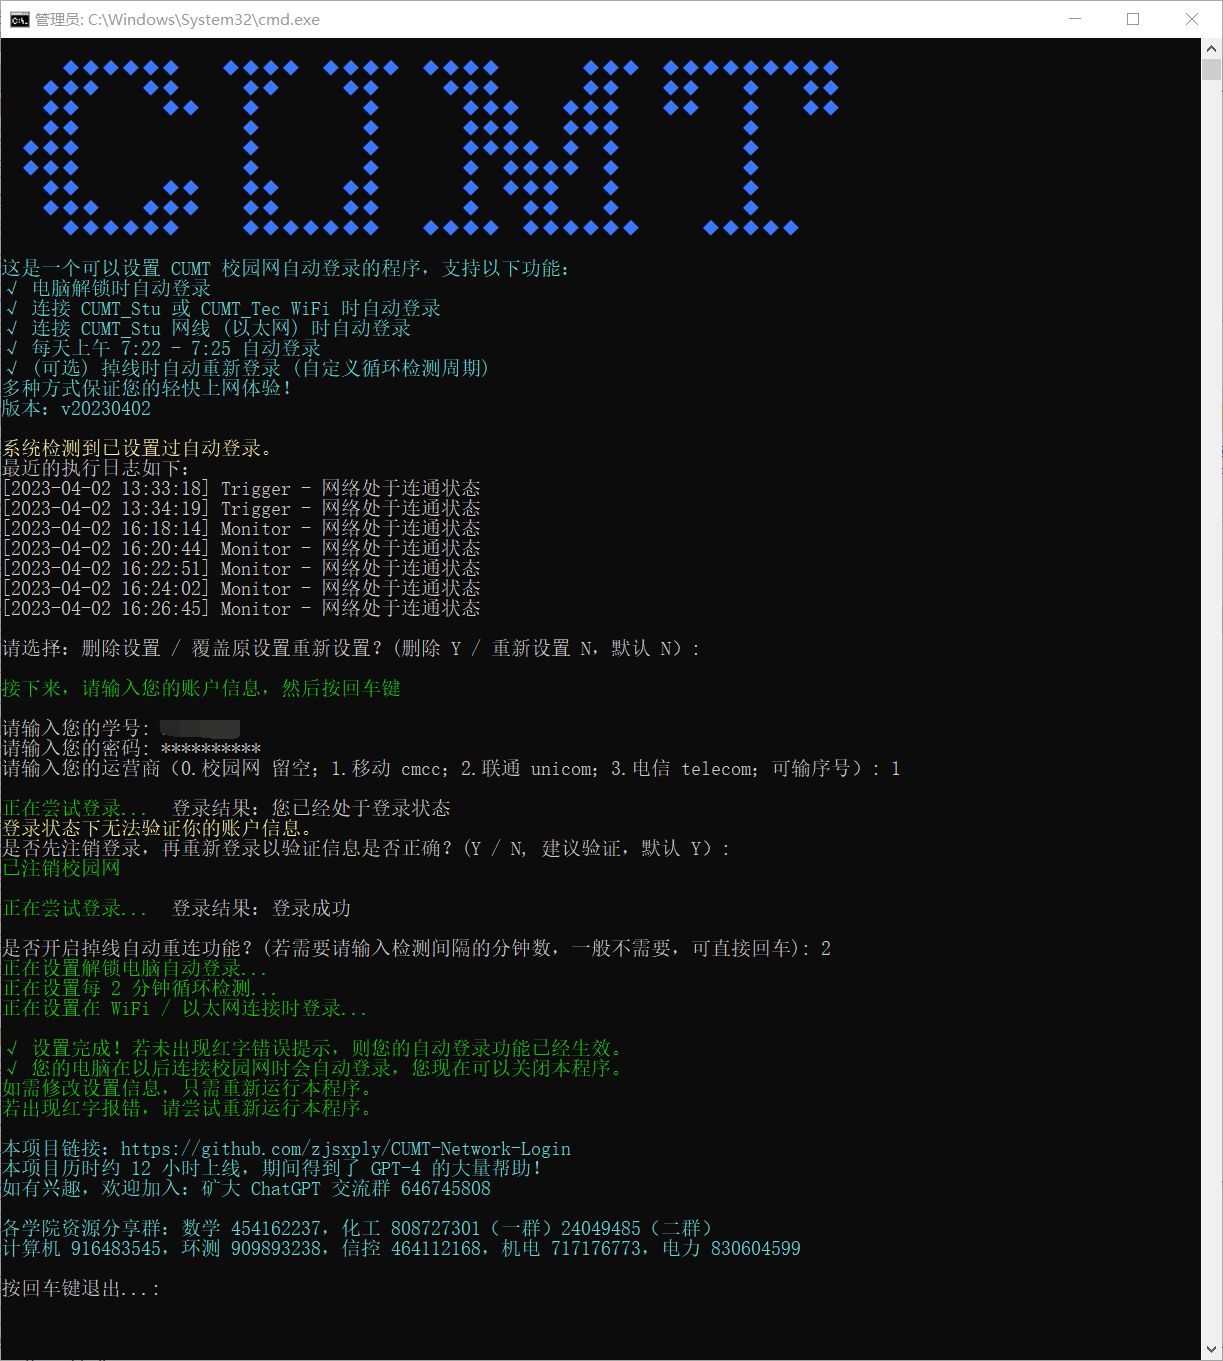
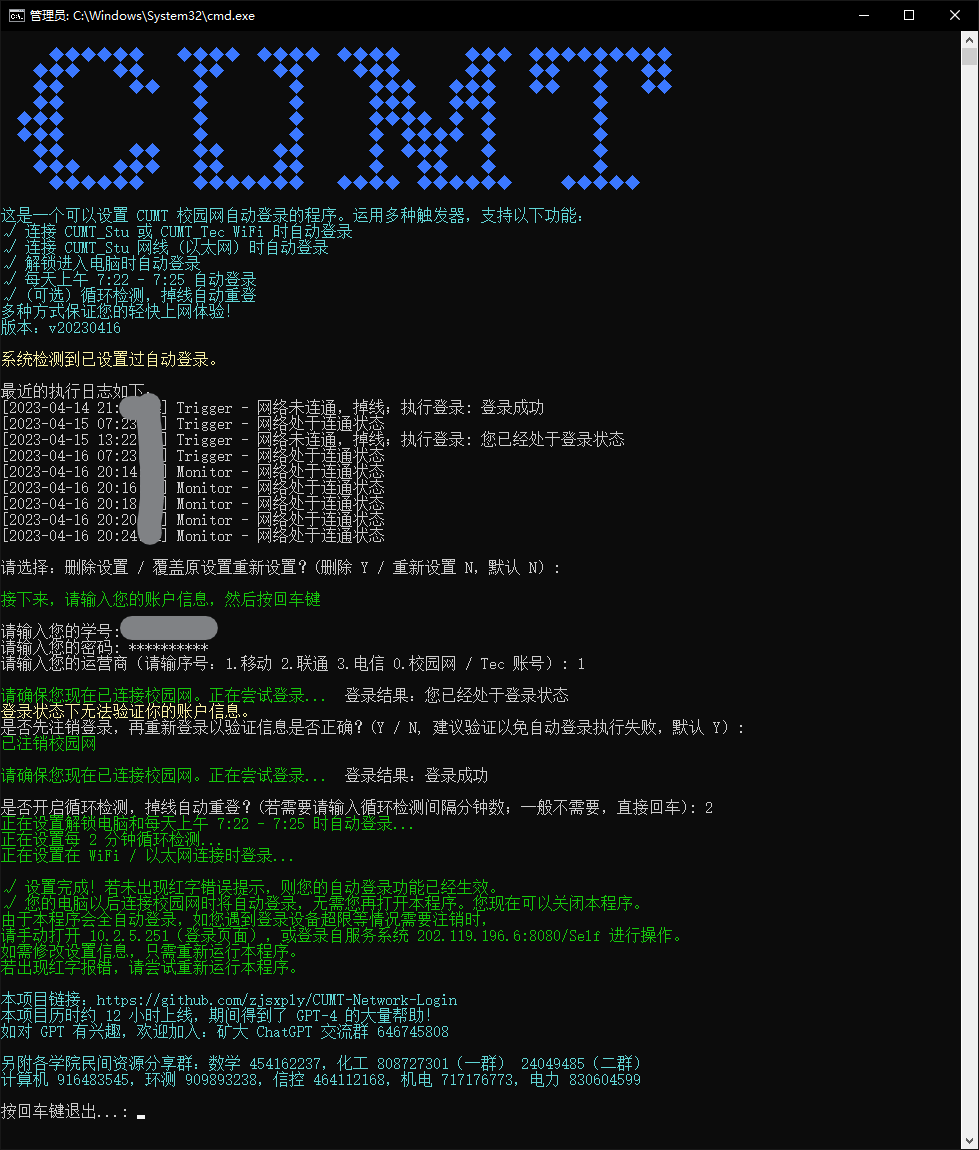
Update README and sreenshot

diff --git a/README.md b/README.md
@@ -1,25 +1,27 @@
 # CUMT-Network-Login
-这是一个可以设置 CUMT 校园网自动登录的程序，支持以下功能：
+这是一个可以设置 CUMT 校园网自动登录的程序。运用多种触发器，支持以下功能：
 
-- 电脑解锁时自动登录
 - 连接 `CUMT_Stu` 或 `CUMT_Tec` WiFi 时自动登录
 - 连接 `CUMT_Stu` 网线 (以太网) 时自动登录
-- 每天 7:22 AM 自动登录
-- (可选) 掉线时自动重新登录 (自定义循环检测周期)
+- 解锁进入电脑时自动登录
+- 每天上午 7:22 - 7:25 自动登录
+- (可选) 循环检测，掉线自动重登
 
 多种方式保证您的轻快上网体验！
 
+版本：v20230416
+
 ## 使用方式
 
-双击运行`CUMT自动登录校园网 for Windows.bat`，需授予管理员权限
+双击运行`CUMT校园网全自动登录 for Windows.bat`，需授予管理员权限
 
 ## 内容说明
 
 本程序使用 Powershell 编写，主程序在 `LoginNetwork.ps1` 中。
 
-我们将该 Powershell 脚本内嵌在 `CUMT自动登录校园网 for Windows.bat` 中，方便用户使用。
+我们将该 Powershell 脚本内嵌在 `CUMT校园网全自动登录 for Windows.bat` 中，方便用户使用。
 
-只需下载 `CUMT自动登录校园网 for Windows.bat` 即可。
+只需下载 `CUMT校园网全自动登录 for Windows.bat` 即可。
 
 ![screenshot](https://github.com/zjsxply/CUMT-Network-Login/blob/main/screenshot.png?raw=true)
 
